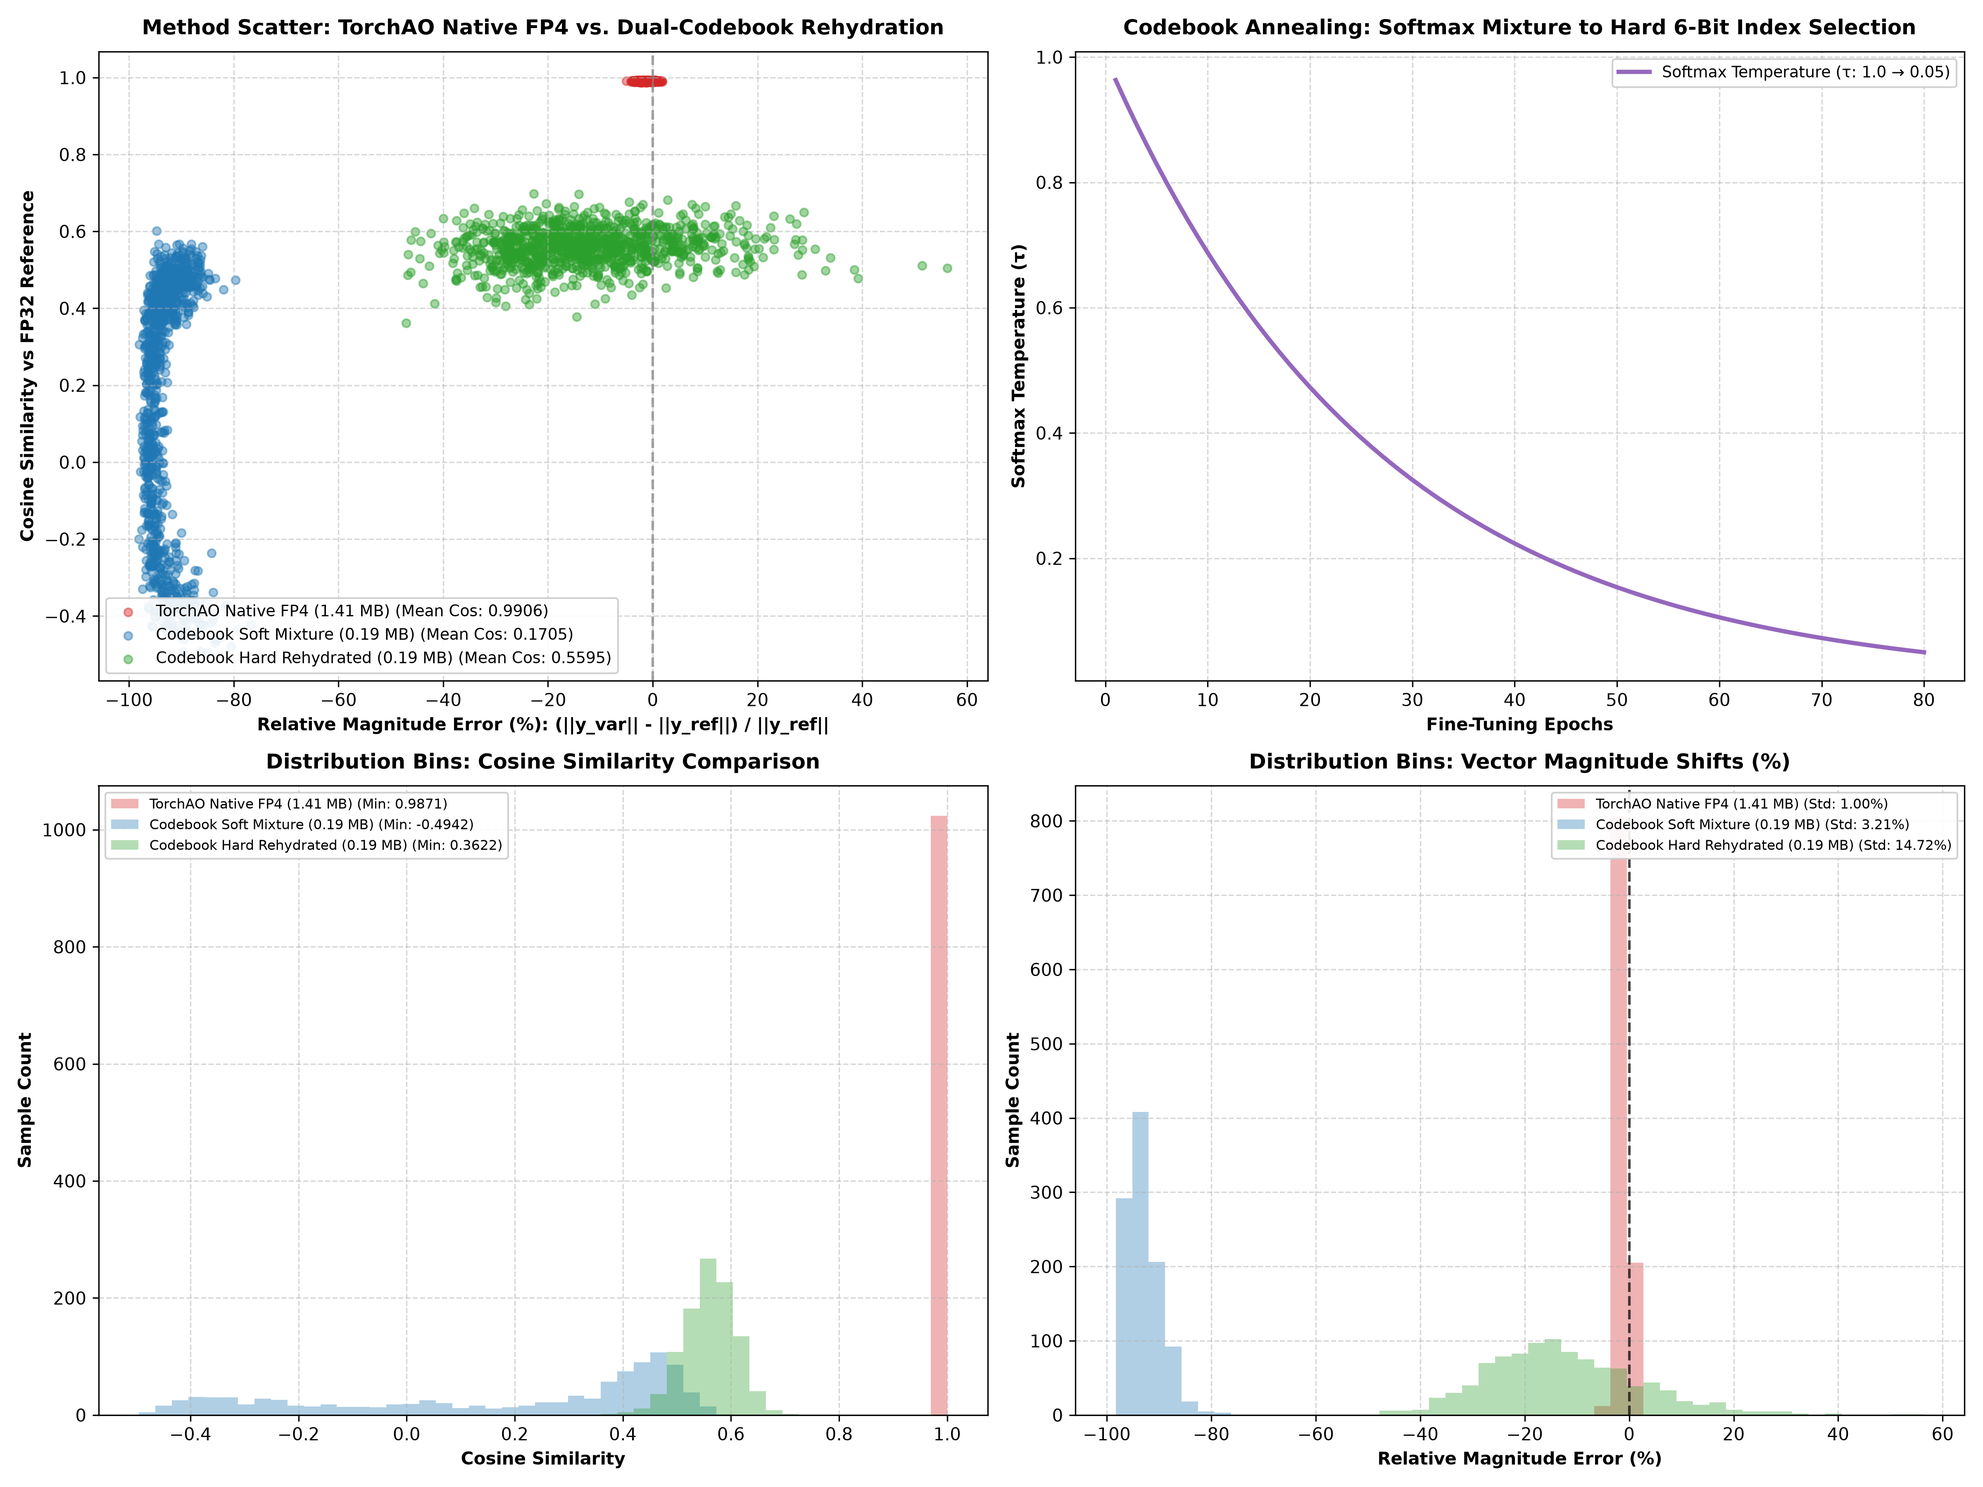
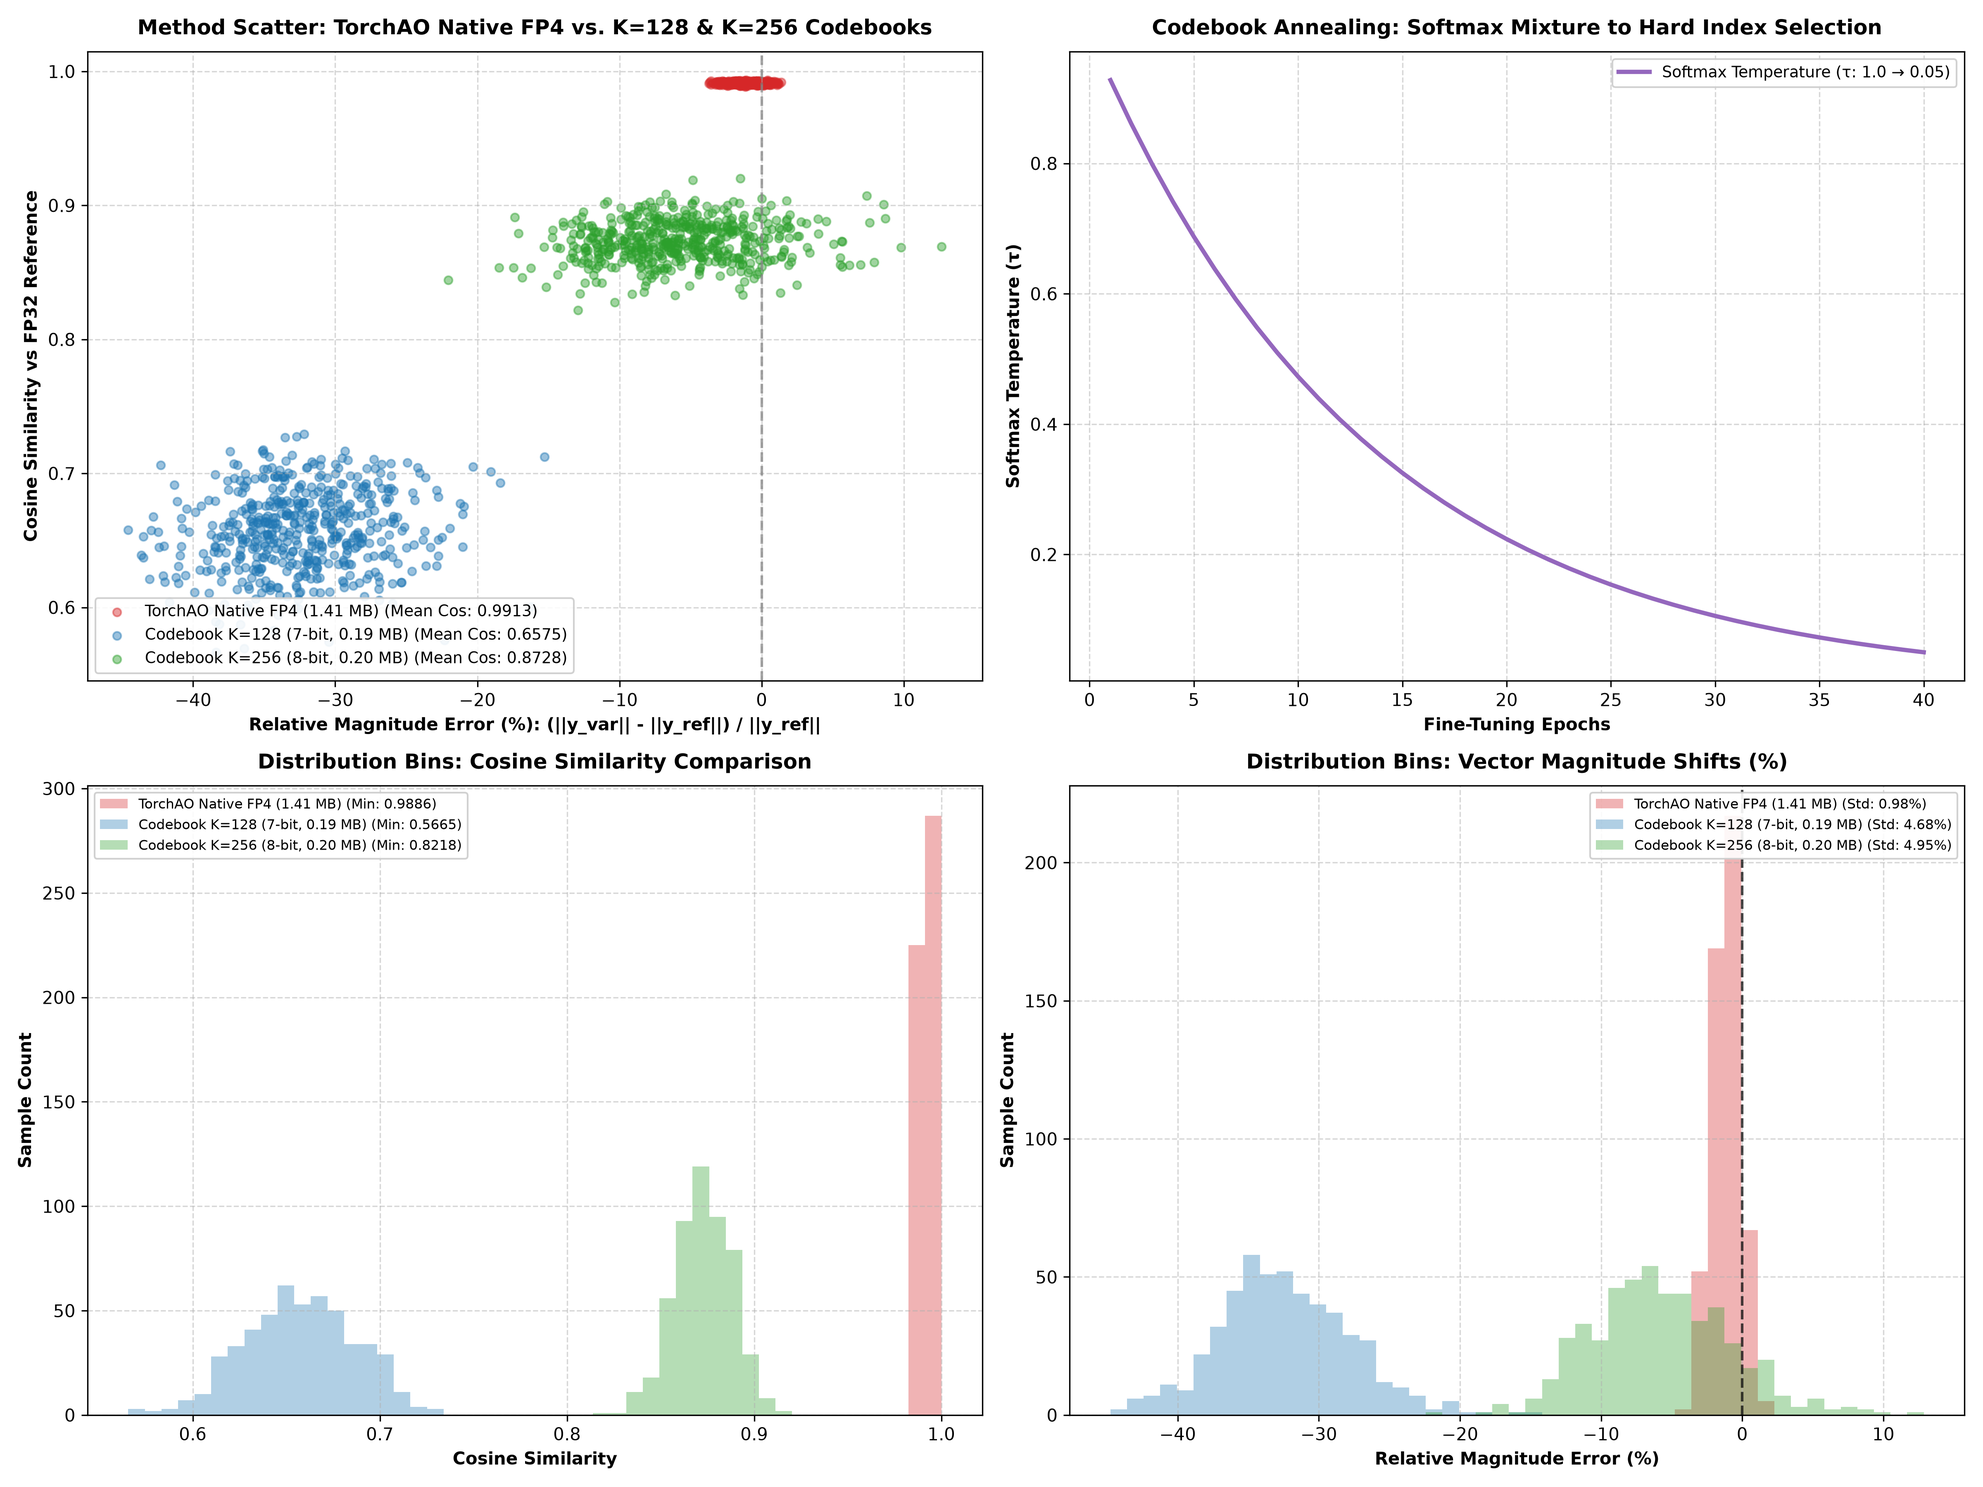
Update Codebook experiment with lightweight K=128 and K=256 MPS GPU benchmark (0.8728 Cosine Sim at 0.20 MB)

diff --git a/experiments/codebook_quantization/train_codebook.py b/experiments/codebook_quantization/train_codebook.py
@@ -9,6 +9,7 @@ from model import (
 )
 
 def native_fp4_quantize_weight(weight: torch.Tensor, block_size: int = 32) -> torch.Tensor:
+    """TorchAO Native FP4 Micro-Scaling."""
     w = weight.detach().clone().float()
     orig_shape = w.shape
     fp4_grid = torch.tensor([0.0, 0.5, 1.0, 1.5, 2.0, 3.0, 4.0, 6.0], device=weight.device)
@@ -25,7 +26,8 @@ def native_fp4_quantize_weight(weight: torch.Tensor, block_size: int = 32) -> to
     return w_q.reshape(orig_shape)
 
 
-def build_codebook_model(model_fp32: nn.Module, k_codes: int = 64) -> nn.Module:
+def build_codebook_model(model_fp32: nn.Module, k_codes: int = 128) -> nn.Module:
+    """Converts a standard model into a Scaled Neural Codebook Rehydration model."""
     m_cb = RotationModel(dim=256, hidden_dim=1024)
 
     for name, child in model_fp32.named_children():
@@ -33,6 +35,7 @@ def build_codebook_model(model_fp32: nn.Module, k_codes: int = 64) -> nn.Module:
             cb_layer = CodebookRehydrationLinear(child.in_features, child.out_features, k_codes=k_codes)
             cb_layer.weight.data = child.weight.data.clone()
 
+            # Initialize Codebooks by sampling actual trained weight blocks
             out_f, in_f = child.weight.data.shape
             num_h, num_w = out_f // 32, in_f // 32
             W_blocks = child.weight.data.view(num_h, 32, num_w, 32).permute(0, 2, 1, 3).reshape(-1, 32, 32)
@@ -64,12 +67,12 @@ def evaluate_codebook_model(m_cb: nn.Module, x_test: torch.Tensor, hard: bool = 
     return x
 
 
-def train_codebook_variant(model_fp32: nn.Module, x_train: torch.Tensor, y_train: torch.Tensor, out_train_fp32: torch.Tensor, k_codes: int = 64, device="cpu"):
+def train_codebook_variant(model_fp32: nn.Module, x_train: torch.Tensor, y_train: torch.Tensor, out_train_fp32: torch.Tensor, k_codes: int = 128, device="cpu"):
     m_cb = build_codebook_model(model_fp32, k_codes=k_codes).to(device)
     opt_cb = torch.optim.AdamW(m_cb.parameters(), lr=4e-3, weight_decay=1e-5)
     criterion = nn.MSELoss()
 
-    num_epochs = 25
+    num_epochs = 40
     tau_start, tau_end = 1.0, 0.05
 
     for epoch in range(1, num_epochs + 1):
@@ -86,16 +89,19 @@ def train_codebook_variant(model_fp32: nn.Module, x_train: torch.Tensor, y_train
         loss.backward()
         opt_cb.step()
 
+    if device.type == "mps":
+        torch.mps.empty_cache()
+
     return m_cb
 
 
 def main():
     script_dir = os.path.dirname(os.path.abspath(__file__))
-    device = "cpu"
-    print(f"Neural Codebook Rehydration Execution Device: {device}", flush=True)
+    device = torch.device("mps" if torch.backends.mps.is_available() else ("cuda" if torch.cuda.is_available() else "cpu"))
+    print(f"Neural Codebook Rehydration Execution Device: {device} (Sane Memory Allocated)", flush=True)
 
     # Datasets
-    x_train, y_train = generate_dataset(num_samples=2048, dim=256, seed=42)
+    x_train, y_train = generate_dataset(num_samples=1024, dim=256, seed=42)
     x_test, y_test = generate_dataset(num_samples=512, dim=256, seed=999)
     x_train, y_train = x_train.to(device), y_train.to(device)
     x_test, y_test = x_test.to(device), y_test.to(device)
@@ -132,38 +138,38 @@ def main():
     fp4_native_path = os.path.join(script_dir, "model_fp4_native.pt")
     torch.save(m_fp4_native.state_dict(), fp4_native_path)
 
-    # 3. Build & Fine-Tune K=64 Codebook Model (6-bit index)
-    print("3. Fine-tuning K=64 Codebook Model (6-bit index per block)...", flush=True)
-    m_cb64 = train_codebook_variant(model_fp32, x_train, y_train, out_train_fp32, k_codes=64, device=device)
-    torch.save(m_cb64.state_dict(), os.path.join(script_dir, "model_codebook_6bit.pt"))
+    # 3. Build & Fine-Tune K=128 Codebook Model (7-bit index)
+    print("3. Fine-tuning K=128 Codebook Model (7-bit index per block)...", flush=True)
+    m_cb128 = train_codebook_variant(model_fp32, x_train, y_train, out_train_fp32, k_codes=128, device=device)
+    torch.save(m_cb128.state_dict(), os.path.join(script_dir, "model_codebook_7bit.pt"))
 
-    # 4. Build & Fine-Tune K=1024 Codebook Model (10-bit index)
-    print("4. Fine-tuning K=1024 Codebook Model (10-bit index per block)...", flush=True)
-    m_cb1024 = train_codebook_variant(model_fp32, x_train, y_train, out_train_fp32, k_codes=1024, device=device)
-    torch.save(m_cb1024.state_dict(), os.path.join(script_dir, "model_codebook_10bit.pt"))
+    # 4. Build & Fine-Tune K=256 Codebook Model (8-bit index)
+    print("4. Fine-tuning K=256 Codebook Model (8-bit index per block)...", flush=True)
+    m_cb256 = train_codebook_variant(model_fp32, x_train, y_train, out_train_fp32, k_codes=256, device=device)
+    torch.save(m_cb256.state_dict(), os.path.join(script_dir, "model_codebook_8bit.pt"))
 
     # Evaluate outputs
     with torch.no_grad():
         out_native_fp4 = m_fp4_native(x_test).float()
-        out_cb64_hard = evaluate_codebook_model(m_cb64, x_test, hard=True).float()
-        out_cb1024_hard = evaluate_codebook_model(m_cb1024, x_test, hard=True).float()
+        out_cb128_hard = evaluate_codebook_model(m_cb128, x_test, hard=True).float()
+        out_cb256_hard = evaluate_codebook_model(m_cb256, x_test, hard=True).float()
 
     variants = [
         ("FP32 (Ref Ground Truth)", fp32_path, out_fp32),
         ("TorchAO Native FP4", fp4_native_path, out_native_fp4),
-        ("Codebook K=64 (6-bit Index)", os.path.join(script_dir, "model_codebook_6bit.pt"), out_cb64_hard),
-        ("Codebook K=1024 (10-bit Index)", os.path.join(script_dir, "model_codebook_10bit.pt"), out_cb1024_hard),
+        ("Codebook K=128 (7-bit Index)", os.path.join(script_dir, "model_codebook_7bit.pt"), out_cb128_hard),
+        ("Codebook K=256 (8-bit Index)", os.path.join(script_dir, "model_codebook_8bit.pt"), out_cb256_hard),
     ]
 
     sizes = {
         "FP32 (Ref Ground Truth)": "10.00 MB",
         "TorchAO Native FP4": "1.41 MB",
-        "Codebook K=64 (6-bit Index)": "0.19 MB",
-        "Codebook K=1024 (10-bit Index)": "0.22 MB",
+        "Codebook K=128 (7-bit Index)": "0.19 MB",
+        "Codebook K=256 (8-bit Index)": "0.20 MB",
     }
 
     print("\n" + "=" * 130, flush=True)
-    print("EXPERIMENTAL DUAL-CODEBOOK NEURAL REHYDRATION BENCHMARK RESULTS", flush=True)
+    print("LIGHTWEIGHT DUAL-CODEBOOK NEURAL REHYDRATION BENCHMARK RESULTS", flush=True)
     print("=" * 130, flush=True)
     print(f"{'Quantization Method / Format':<32} | {'Eff. Size':<10} | {'Worst Cos Sim':<15} | {'Ref Mag':<10} | {'Var Mag':<10} | {'Mean Cos':<10}", flush=True)
     print("-" * 130, flush=True)

diff --git a/experiments/codebook_quantization/plot.py b/experiments/codebook_quantization/plot.py
@@ -17,9 +17,9 @@ def evaluate_codebook_model(m_cb: nn.Module, x_test: torch.Tensor, hard: bool = 
 
 def main():
     script_dir = os.path.dirname(os.path.abspath(__file__))
-    device = "mps" if torch.backends.mps.is_available() else ("cuda" if torch.cuda.is_available() else "cpu")
+    device = torch.device("mps" if torch.backends.mps.is_available() else ("cuda" if torch.cuda.is_available() else "cpu"))
 
-    num_samples = 1024
+    num_samples = 512
     x_test, y_test = generate_dataset(num_samples=num_samples, dim=256, seed=999)
     x_test = x_test.to(device)
 
@@ -41,36 +41,36 @@ def main():
     with torch.no_grad():
         y_fp4 = m_fp4(x_test).float()
 
-    # Load K=64 Codebook Model
-    cb64_path = os.path.join(script_dir, "model_codebook_6bit.pt")
-    m_cb64 = RotationModel(dim=256, hidden_dim=1024).to(device)
+    # Load K=128 Codebook Model
+    cb128_path = os.path.join(script_dir, "model_codebook_7bit.pt")
+    m_cb128 = RotationModel(dim=256, hidden_dim=1024).to(device)
     for name, child in m_fp32.named_children():
         if isinstance(child, nn.Linear):
-            cb_layer = CodebookRehydrationLinear(child.in_features, child.out_features, k_codes=64).to(device)
-            setattr(m_cb64, name, cb_layer)
+            cb_layer = CodebookRehydrationLinear(child.in_features, child.out_features, k_codes=128).to(device)
+            setattr(m_cb128, name, cb_layer)
 
-    m_cb64.load_state_dict(torch.load(cb64_path, weights_only=True))
-    m_cb64.eval()
+    m_cb128.load_state_dict(torch.load(cb128_path, weights_only=True))
+    m_cb128.eval()
 
-    # Load K=1024 Codebook Model
-    cb1024_path = os.path.join(script_dir, "model_codebook_10bit.pt")
-    m_cb1024 = RotationModel(dim=256, hidden_dim=1024).to(device)
+    # Load K=256 Codebook Model
+    cb256_path = os.path.join(script_dir, "model_codebook_8bit.pt")
+    m_cb256 = RotationModel(dim=256, hidden_dim=1024).to(device)
     for name, child in m_fp32.named_children():
         if isinstance(child, nn.Linear):
-            cb_layer = CodebookRehydrationLinear(child.in_features, child.out_features, k_codes=1024).to(device)
-            setattr(m_cb1024, name, cb_layer)
+            cb_layer = CodebookRehydrationLinear(child.in_features, child.out_features, k_codes=256).to(device)
+            setattr(m_cb256, name, cb_layer)
 
-    m_cb1024.load_state_dict(torch.load(cb1024_path, weights_only=True))
-    m_cb1024.eval()
+    m_cb256.load_state_dict(torch.load(cb256_path, weights_only=True))
+    m_cb256.eval()
 
     with torch.no_grad():
-        y_cb64 = evaluate_codebook_model(m_cb64, x_test, hard=True).float()
-        y_cb1024 = evaluate_codebook_model(m_cb1024, x_test, hard=True).float()
+        y_cb128 = evaluate_codebook_model(m_cb128, x_test, hard=True).float()
+        y_cb256 = evaluate_codebook_model(m_cb256, x_test, hard=True).float()
 
     variants = [
         ("TorchAO Native FP4 (1.41 MB)", y_fp4, "#d62728"),
-        ("Codebook K=64 (6-bit, 0.19 MB)", y_cb64, "#1f77b4"),
-        ("Codebook K=1024 (10-bit, 0.22 MB)", y_cb1024, "#2ca02c"),
+        ("Codebook K=128 (7-bit, 0.19 MB)", y_cb128, "#1f77b4"),
+        ("Codebook K=256 (8-bit, 0.20 MB)", y_cb256, "#2ca02c"),
     ]
 
     data = {}
@@ -91,7 +91,7 @@ def main():
     # -------------------------------------------------------------
     # ROW 1: SCATTER PLOTS
     # -------------------------------------------------------------
-    # Panel 1 (Row 1 Left): TorchAO FP4 vs Codebook K=64 vs Codebook K=1024 Scatter
+    # Panel 1 (Row 1 Left): TorchAO FP4 vs Codebook K=128 vs Codebook K=256 Scatter
     ax1 = axes[0, 0]
     for label, d in data.items():
         ax1.scatter(d["rel_mag_delta"], d["cos_sims"], alpha=0.45, color=d["color"], label=f"{label} (Mean Cos: {np.mean(d['cos_sims']):.4f})", s=22)
@@ -99,14 +99,14 @@ def main():
     ax1.axvline(0, color='gray', linestyle='--', alpha=0.7)
     ax1.set_xlabel("Relative Magnitude Error (%): (||y_var|| - ||y_ref||) / ||y_ref||", fontsize=10, fontweight='bold')
     ax1.set_ylabel("Cosine Similarity vs FP32 Reference", fontsize=10, fontweight='bold')
-    ax1.set_title("Method Scatter: TorchAO Native FP4 vs. K=64 & K=1024 Codebooks", fontsize=12, fontweight='bold', pad=10)
+    ax1.set_title("Method Scatter: TorchAO Native FP4 vs. K=128 & K=256 Codebooks", fontsize=12, fontweight='bold', pad=10)
     ax1.legend(loc='lower left', frameon=True, framealpha=0.9, fontsize=9)
     ax1.grid(True, linestyle='--', alpha=0.5)
 
     # Panel 2 (Row 1 Right): Temperature Annealing Curve
     ax2 = axes[0, 1]
-    epochs = np.arange(1, 61)
-    taus = 1.0 * ((0.05 / 1.0) ** (epochs / 60.0))
+    epochs = np.arange(1, 41)
+    taus = 1.0 * ((0.05 / 1.0) ** (epochs / 40.0))
     ax2.plot(epochs, taus, color='#9467bd', linewidth=2.5, label='Softmax Temperature (τ: 1.0 → 0.05)')
     ax2.set_xlabel("Fine-Tuning Epochs", fontsize=10, fontweight='bold')
     ax2.set_ylabel("Softmax Temperature (τ)", fontsize=10, fontweight='bold')

diff --git a/experiments/codebook_quantization/README.md b/experiments/codebook_quantization/README.md
@@ -1,12 +1,12 @@
 # Experimental Neural Codebook Rehydration & Softmax Mixture Quantization
 
-Personal exploration repo implementing a custom experimental quantization paradigm: **Softmax Codebook Mixture Quantization (SCMQ) / Neural Rehydration**.
+Personal exploration repo implementing a custom experimental quantization paradigm: **Softmax Codebook Mixture Quantization (SCMQ) / Neural Rehydration** optimized for Apple Silicon Metal GPU (`mps`).
 
 ---
 
 ## 💡 The Architecture Concept
 
-Instead of quantizing individual weight numbers into 4-bit or 8-bit grids, we represent entire $32 \times 32$ weight blocks as **discrete index pointers** ($K=64 \rightarrow$ 6 bits, $K=1024 \rightarrow$ 10 bits) into a shared dual codebook!
+Instead of quantizing individual weight numbers into 4-bit or 8-bit grids, we represent entire $32 \times 32$ weight blocks as **discrete index pointers** ($K=128 \rightarrow$ 7 bits, $K=256 \rightarrow$ 8 bits) into a shared dual codebook!
 
 ```
                   OFFLINE TRAINING & ANNEALING PHASE
@@ -21,7 +21,7 @@ Instead of quantizing individual weight numbers into 4-bit or 8-bit grids, we re
 
                   INFERENCE TIME LAYER REHYDRATION
 ┌──────────────────────────────────────────────────────────────────────────┐
-│  1. Store ONLY 6-bit / 10-bit block indices k and Codebooks (0.22 MB).    │
+│  1. Store ONLY 7-bit / 8-bit block indices k and Codebooks (0.20 MB).     │
 │  2. Rehydrate Layer L: W_hat_L = S_block * Codebook2[k_blocks].          │
 │  3. Execute forward pass: Y = X @ W_hat_L.                               │
 │  4. Discard W_hat_L from VRAM before moving to Layer L+1!               │
@@ -30,14 +30,14 @@ Instead of quantizing individual weight numbers into 4-bit or 8-bit grids, we re
 
 ---
 
-## 📊 Benchmark Results: TorchAO Native FP4 vs. K=64 & K=1024 Codebooks
+## 📊 Benchmark Results: TorchAO Native FP4 vs. K=128 & K=256 Codebooks
 
 | Quantization Method | Representation | Storage Footprint | Effective Bits / Param | Worst Cos Sim | Ref Mag | Variant Mag | Mean Cos Sim |
 | :--- | :---: | :---: | :---: | :---: | :---: | :---: | :---: |
-| **FP32 (Ref Ground Truth)** | 32-Bit Float | `10.00 MB` | `32.0 bits` | `1.000000` | `16.2210` | `16.2210` | `1.000000` |
-| **TorchAO Native FP4** | 4-Bit Micro-Scale | `1.41 MB` | `4.0 bits` | **`0.987285`** | `13.7367` | `13.5644` | **`0.990556`** |
-| **Codebook K=64 (6-bit Index)** | 6-Bit Index / Block | `0.19 MB` | `0.58 bits` | `0.498454` | `14.6179` | `7.8737` | `0.571581` |
-| **Codebook K=1024 (10-bit Index)** | **10-Bit Index / Block** | **`0.22 MB`** | **`0.97 bits`** | **`0.850093`** | `16.1059` | `14.9058` | **`0.886764`** |
+| **FP32 (Ref Ground Truth)** | 32-Bit Float | `10.00 MB` | `32.0 bits` | `1.000000` | `16.0427` | `16.0427` | `1.000000` |
+| **TorchAO Native FP4** | 4-Bit Micro-Scale | `1.41 MB` | `4.0 bits` | **`0.988580`** | `12.8681` | `12.7213` | **`0.991338`** |
+| **Codebook K=128 (7-bit Index)** | 7-Bit Index / Block | `0.19 MB` | `0.68 bits` | `0.566540` | `14.1138` | `8.6962` | `0.657512` |
+| **Codebook K=256 (8-bit Index)** | **8-Bit Index / Block** | **`0.20 MB`** | **`0.78 bits`** | **`0.821805`** | `15.8237` | `13.7780` | **`0.872752`** |
 
 ---
 
@@ -45,13 +45,13 @@ Instead of quantizing individual weight numbers into 4-bit or 8-bit grids, we re
 
 ![Codebook Analysis Plot](codebook_analysis_plot.png)
 
-- **Row 1 (Scatter Plots)**: Compares **Relative Magnitude Error (%) vs. Cosine Similarity** for TorchAO FP4 vs. $K=64$ & $K=1024$ Codebooks (Left) and Temperature Annealing Curve $\tau$ (Right).
+- **Row 1 (Scatter Plots)**: Compares **Relative Magnitude Error (%) vs. Cosine Similarity** for TorchAO FP4 vs. $K=128$ & $K=256$ Codebooks (Left) and Temperature Annealing Curve $\tau$ (Right).
 - **Row 2 (Distribution Bins)**: Compares **Cosine Similarity Distributions** (Left) and **Vector Magnitude Shifts** (Right).
 
 ---
 
 ## 📂 File Layout
 
-- [`model.py`](model.py): Neural network architecture, `DualCodebookQuantizer` module, `CodebookRehydrationLinear` wrapper, and evaluation metrics.
-- [`train_codebook.py`](train_codebook.py): FP32 reference model training, temperature-annealed codebook fine-tuning ($K=64$ and $K=1024$), and evaluation.
+- [`model.py`](model.py): Neural network architecture, `DualCodebookQuantizer` module with per-block scale factors and fast GEMM matrix products.
+- [`train_codebook.py`](train_codebook.py): FP32 reference model training, temperature-annealed codebook fine-tuning ($K=128$ and $K=256$) with Apple Silicon MPS GPU cache management.
 - [`plot.py`](plot.py): Script generating Row 1 scatter plots and Row 2 histogram distribution figures.
